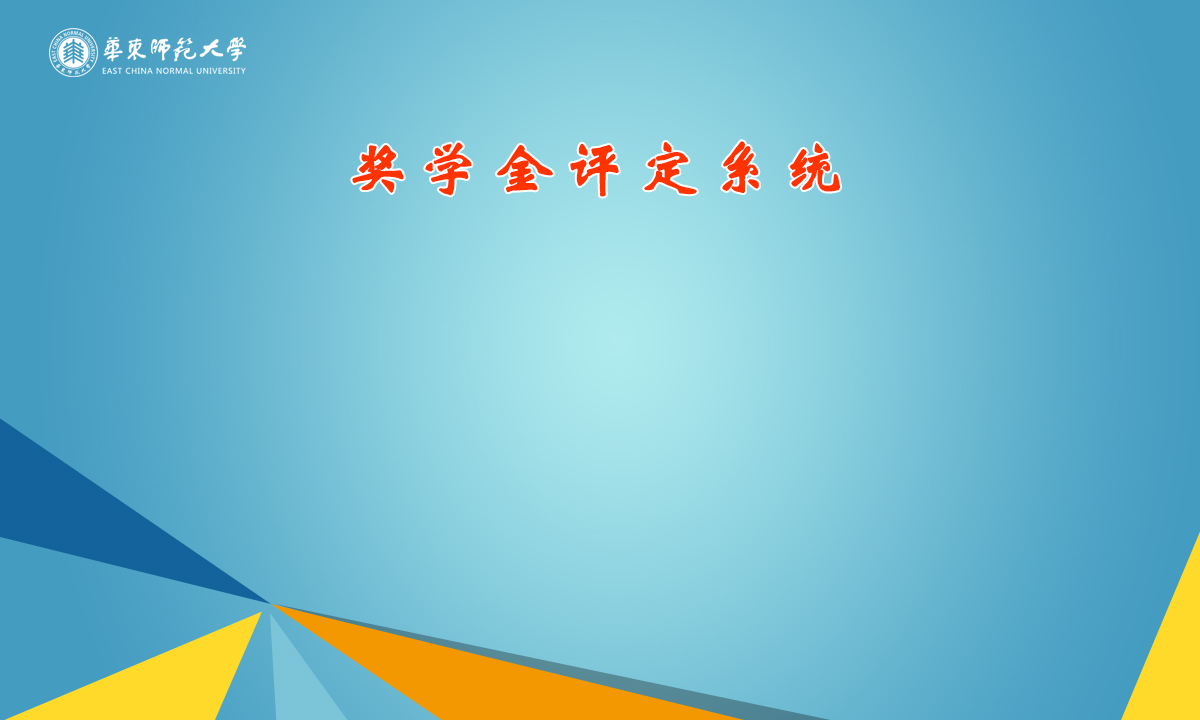
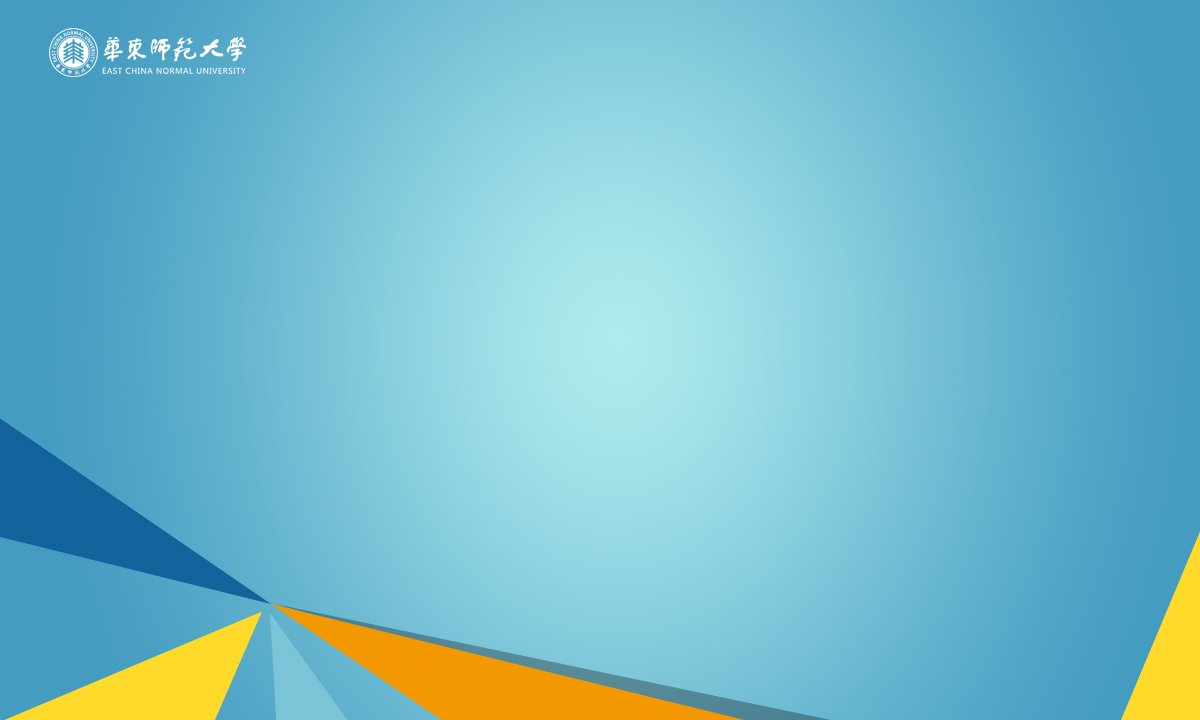
HTML修改
HTML图片修改

Changed region(s): [[0.2775, 0.1833, 0.7092, 0.275]]

diff --git a/web/index.html b/web/index.html
@@ -18,7 +18,9 @@
 </head>
 
 <body >
-<h1 align="center">奖学金评定系统</h1>
+<div align="center">
+<img src="beijing1.png" align="center" ></div>
+
 <hr size="3" width="1200px" align="center" style="border-top: 1px dotted #fff">
 <div id="content" align="center">
     <nav >
